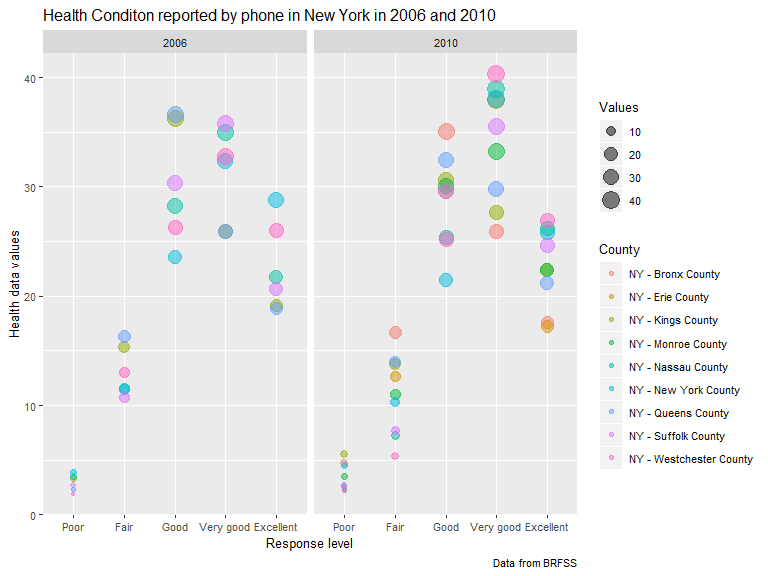
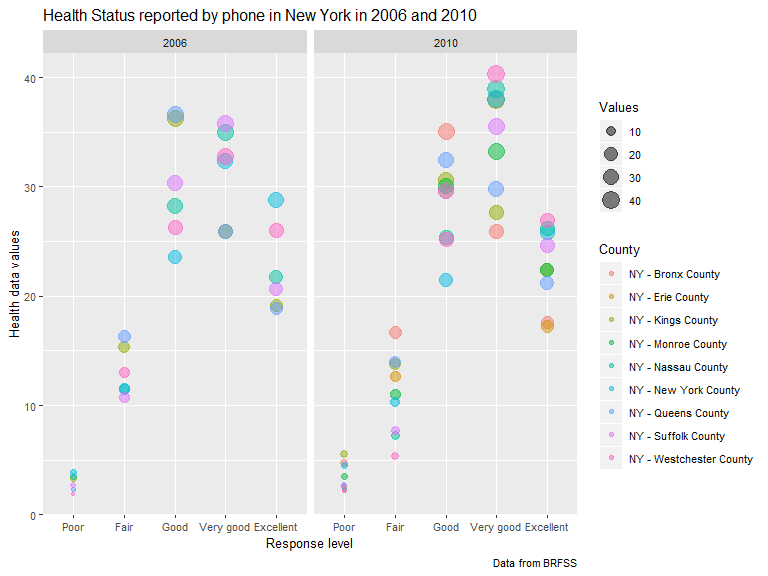
Some updates about problem 2

Changed region(s): [[0.125, 0.0, 0.6562, 0.0625]]

diff --git a/p8105_hw3_jg4197.md b/p8105_hw3_jg4197.md
@@ -17,14 +17,14 @@ library(p8105.datasets)
 library(tidyverse)
 ```
 
-    ## -- Attaching packages ------------------------------- tidyverse 1.2.1 --
+    ## -- Attaching packages ------------------------------------ tidyverse 1.2.1 --
 
     ## v ggplot2 3.2.1     v purrr   0.3.2
     ## v tibble  2.1.3     v dplyr   0.8.3
     ## v tidyr   1.0.0     v stringr 1.4.0
     ## v readr   1.3.1     v forcats 0.4.0
 
-    ## -- Conflicts ---------------------------------- tidyverse_conflicts() --
+    ## -- Conflicts --------------------------------------- tidyverse_conflicts() --
     ## x dplyr::filter() masks stats::filter()
     ## x dplyr::lag()    masks stats::lag()
 
@@ -197,18 +197,25 @@ brfss <- p8105.datasets::brfss_smart2010 %>%
   filter(topic == "Overall Health",
          response %in% c("Excellent", "Very good",
                          "Good", "Fair", "Poor")) %>% 
-  mutate(response = factor(response, levels = c("Poor", "Fair", "Good",
-                                                "Very good", "Excellent")
-                           ))
-head(brfss, 3)
+  mutate(response = factor(response, ordered = TRUE, levels = c("Poor", "Fair", "Good", "Very good", "Excellent"))) 
+
+brfss <- p8105.datasets::brfss_smart2010 %>%
+  janitor::clean_names() %>% 
+  filter(topic == "Overall Health",
+         response %in% c("Excellent", "Very good",
+                         "Good", "Fair", "Poor")) %>% 
+  mutate(response = factor(response, ordered = TRUE, levels = c("Poor", "Fair", "Good", "Very good", "Excellent"))) 
+head(brfss, 5)
 ```
 
-    ## # A tibble: 3 x 23
+    ## # A tibble: 5 x 23
     ##    year locationabbr locationdesc class topic question response sample_size
-    ##   <int> <chr>        <chr>        <chr> <chr> <chr>    <fct>          <int>
+    ##   <int> <chr>        <chr>        <chr> <chr> <chr>    <ord>          <int>
     ## 1  2010 AL           AL - Jeffer~ Heal~ Over~ How is ~ Excelle~          94
     ## 2  2010 AL           AL - Jeffer~ Heal~ Over~ How is ~ Very go~         148
     ## 3  2010 AL           AL - Jeffer~ Heal~ Over~ How is ~ Good             208
+    ## 4  2010 AL           AL - Jeffer~ Heal~ Over~ How is ~ Fair             107
+    ## 5  2010 AL           AL - Jeffer~ Heal~ Over~ How is ~ Poor              45
     ## # ... with 15 more variables: data_value <dbl>,
     ## #   confidence_limit_low <dbl>, confidence_limit_high <dbl>,
     ## #   display_order <int>, data_value_unit <chr>, data_value_type <chr>,
@@ -221,31 +228,28 @@ head(brfss, 3)
 brfss %>% 
   select(year, locationabbr, locationdesc) %>% 
   filter(year == "2002") %>% 
+  distinct() %>% 
   group_by(locationabbr) %>% 
   summarise(n_place = n()) %>% 
   filter(n_place >= 7) %>% 
   pull(locationabbr)
 ```
 
-    ##  [1] "AZ" "CO" "CT" "DE" "FL" "GA" "HI" "ID" "IL" "IN" "KS" "LA" "MA" "MD"
-    ## [15] "ME" "MI" "MN" "MO" "NC" "NE" "NH" "NJ" "NV" "NY" "OH" "OK" "OR" "PA"
-    ## [29] "RI" "SC" "SD" "TN" "TX" "UT" "VT" "WA"
+    ## [1] "CT" "FL" "MA" "NC" "NJ" "PA"
 
 ``` r
 # the states observed at 7 or more location in 2010
 brfss %>% 
   select(year, locationabbr, locationdesc) %>% 
   filter(year == "2010") %>% 
+  distinct() %>% 
   group_by(locationabbr) %>% 
   summarise(n_place = n()) %>% 
   filter(n_place >= 7) %>% 
   pull(locationabbr)
 ```
 
-    ##  [1] "AL" "AR" "AZ" "CA" "CO" "CT" "DE" "FL" "GA" "HI" "IA" "ID" "IL" "IN"
-    ## [15] "KS" "LA" "MA" "MD" "ME" "MI" "MN" "MO" "MS" "MT" "NC" "ND" "NE" "NH"
-    ## [29] "NJ" "NM" "NV" "NY" "OH" "OK" "OR" "PA" "RI" "SC" "SD" "TN" "TX" "UT"
-    ## [43] "VT" "WA" "WY"
+    ##  [1] "CA" "CO" "FL" "MA" "MD" "NC" "NE" "NJ" "NY" "OH" "PA" "SC" "TX" "WA"
 
 ``` r
 # construct a new dataset and make a plot
@@ -254,6 +258,7 @@ brfss %>%
   select(year, State = locationabbr, data_value) %>% 
   group_by(year, State) %>% 
   summarise(mean_data_value = mean(data_value)) %>% 
+  drop_na(mean_data_value) %>% 
   ggplot(aes(x = year, y = mean_data_value, color = State)) +
   geom_point(alpha = .5) + geom_line(alpha = .8, size = .9) + 
   theme_classic() +
@@ -274,6 +279,8 @@ brfss %>%
 ``` r
 ## The plot shows the change of each state's number of excellent heath report across year
 
+
+
 # two-panel plot for NY in 2006 and 2010
 brfss %>% 
   filter(year %in% c("2006", "2010"),
@@ -283,7 +290,7 @@ brfss %>%
   geom_point(aes(fill = County, size = Values), alpha = .5) +
   facet_grid(~ year) +
   labs(
-    title = "Health Conditon reported by phone in New York in 2006 and 2010",
+    title = "Health Status reported by phone in New York in 2006 and 2010",
     x = "Response level", 
     y = "Health data values",
     caption = "Data from BRFSS"
